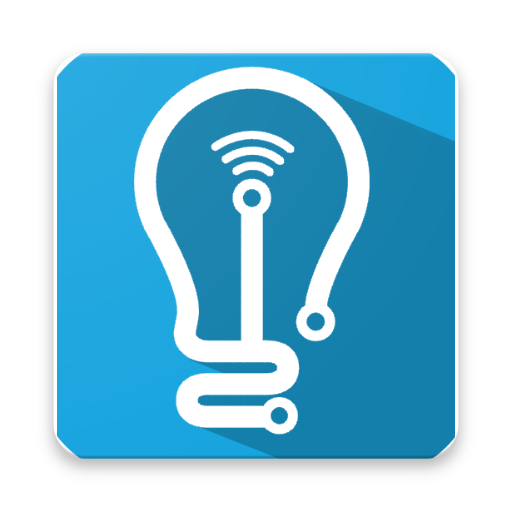
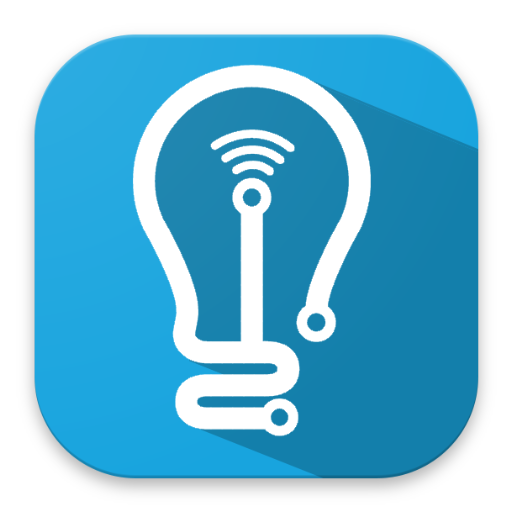
UI changes in Login, Splash and About...

diff --git a/app/src/main/java/com/instify/android/ux/LoginActivity.java b/app/src/main/java/com/instify/android/ux/LoginActivity.java
@@ -3,9 +3,13 @@ package com.instify.android.ux;
 import android.annotation.TargetApi;
 import android.app.ProgressDialog;
 import android.content.Intent;
+import android.graphics.Rect;
+import android.graphics.Typeface;
 import android.graphics.drawable.AnimationDrawable;
+import android.graphics.drawable.Drawable;
 import android.os.Bundle;
 import android.support.annotation.NonNull;
+import android.support.v4.content.ContextCompat;
 import android.support.v7.app.AppCompatActivity;
 import android.text.TextUtils;
 import android.view.View;
@@ -18,6 +22,8 @@ import android.widget.Toast;
 import com.android.volley.Request;
 import com.android.volley.Response;
 import com.android.volley.toolbox.StringRequest;
+import com.getkeepsafe.taptargetview.TapTarget;
+import com.getkeepsafe.taptargetview.TapTargetView;
 import com.google.android.gms.auth.api.Auth;
 import com.google.android.gms.auth.api.signin.GoogleSignInAccount;
 import com.google.android.gms.auth.api.signin.GoogleSignInOptions;
@@ -150,6 +156,32 @@ public class LoginActivity extends AppCompatActivity implements View.OnClickList
         // Disable the buttons by default
         mRegNoField.setEnabled(false);
         mPasswordField.setEnabled(false);
+
+        TapTargetView.showFor(this,                 // `this` is an Activity
+                TapTarget.forView(findViewById(R.id.button_google_login), "First, Sign in to Google!", "This enables you to enter your ERP credentials")
+                        // All options below are optional
+                        .outerCircleColor(R.color.colorPrimary)      // Specify a color for the outer circle
+                        .outerCircleAlpha(0.96f)            // Specify the alpha amount for the outer circle
+                        .targetCircleColor(R.color.white)   // Specify a color for the target circle
+                        .titleTextSize(20)                  // Specify the size (in sp) of the title text
+                        .titleTextColor(R.color.white)      // Specify the color of the title text
+                        .descriptionTextSize(10)            // Specify the size (in sp) of the description text
+                        .descriptionTextColor(R.color.colorPrimary)  // Specify the color of the description text
+                        .textColor(R.color.white)            // Specify a color for both the title and description text
+                        .textTypeface(Typeface.SANS_SERIF)  // Specify a typeface for the text
+                        .dimColor(R.color.black)            // If set, will dim behind the view with 30% opacity of the given color
+                        .drawShadow(true)                   // Whether to draw a drop shadow or not
+                        .cancelable(false)                  // Whether tapping outside the outer circle dismisses the view
+                        .tintTarget(true)                   // Whether to tint the target view's color
+                        .transparentTarget(true)           // Specify whether the target is transparent (displays the content underneath)
+                        .targetRadius(60),                  // Specify the target radius (in dp)
+                new TapTargetView.Listener() {          // The listener can listen for regular clicks, long clicks or cancels
+                    @Override
+                    public void onTargetClick(TapTargetView view) {
+                        super.onTargetClick(view);      // This call is optional
+                        Toast.makeText(LoginActivity.this, "You're cool!", Toast.LENGTH_SHORT).show();
+                    }
+                });
 
         // [START config_signin]
         // Configure Google Sign In

diff --git a/app/src/main/java/com/instify/android/ux/AboutActivity.java b/app/src/main/java/com/instify/android/ux/AboutActivity.java
@@ -34,8 +34,8 @@ public class AboutActivity extends AppCompatActivity {
         View aboutPage = new AboutPage(this)
                 .isRTL(false)
                 .setDescription("Instify is an (add content here)\n\nDevelopers : Abhishek, Arjun and Somnath\n\nSepcial thanks to : Chandan Singh, Ankur, Trishansh")
-                .setImage(R.drawable.background)
-                .addItem(new Element().setTitle("Version 1.1.2"))
+                .setImage(R.drawable.ic_logo_96dp)
+                .addItem(new Element().setTitle("Version 1.2.0"))
                 .addGroup("Connect with us")
                 .addEmail("abhishekuniyal09@gmail.com")
                 .addWebsite("https://www.fnplus.xyz/")
@@ -54,12 +54,8 @@ public class AboutActivity extends AppCompatActivity {
         copyRightsElement.setIconDrawable(R.drawable.about_icon_copy_right);
         copyRightsElement.setIconTint(R.color.about_item_icon_color);
         copyRightsElement.setGravity(Gravity.CENTER);
-        copyRightsElement.setOnClickListener(new View.OnClickListener() {
-            @Override
-            public void onClick(View v) {
-                Toast.makeText(AboutActivity.this, copyrights, Toast.LENGTH_SHORT).show();
-            }
-        });
+        copyRightsElement.setOnClickListener(v ->
+                Toast.makeText(AboutActivity.this, copyrights, Toast.LENGTH_SHORT).show());
         return copyRightsElement;
     }
 }

diff --git a/app/src/main/java/com/instify/android/services/MyFirebaseMessagingService.java b/app/src/main/java/com/instify/android/services/MyFirebaseMessagingService.java
@@ -90,7 +90,7 @@ public class MyFirebaseMessagingService extends FirebaseMessagingService {
 
         Uri defaultSoundUri = RingtoneManager.getDefaultUri(RingtoneManager.TYPE_NOTIFICATION);
         NotificationCompat.Builder notificationBuilder = new NotificationCompat.Builder(this)
-                .setSmallIcon(R.drawable.background)
+                .setSmallIcon(R.drawable.ic_logo_48dp)
                 .setContentTitle("FCM Message")
                 .setContentText(messageBody)
                 .setAutoCancel(true)
